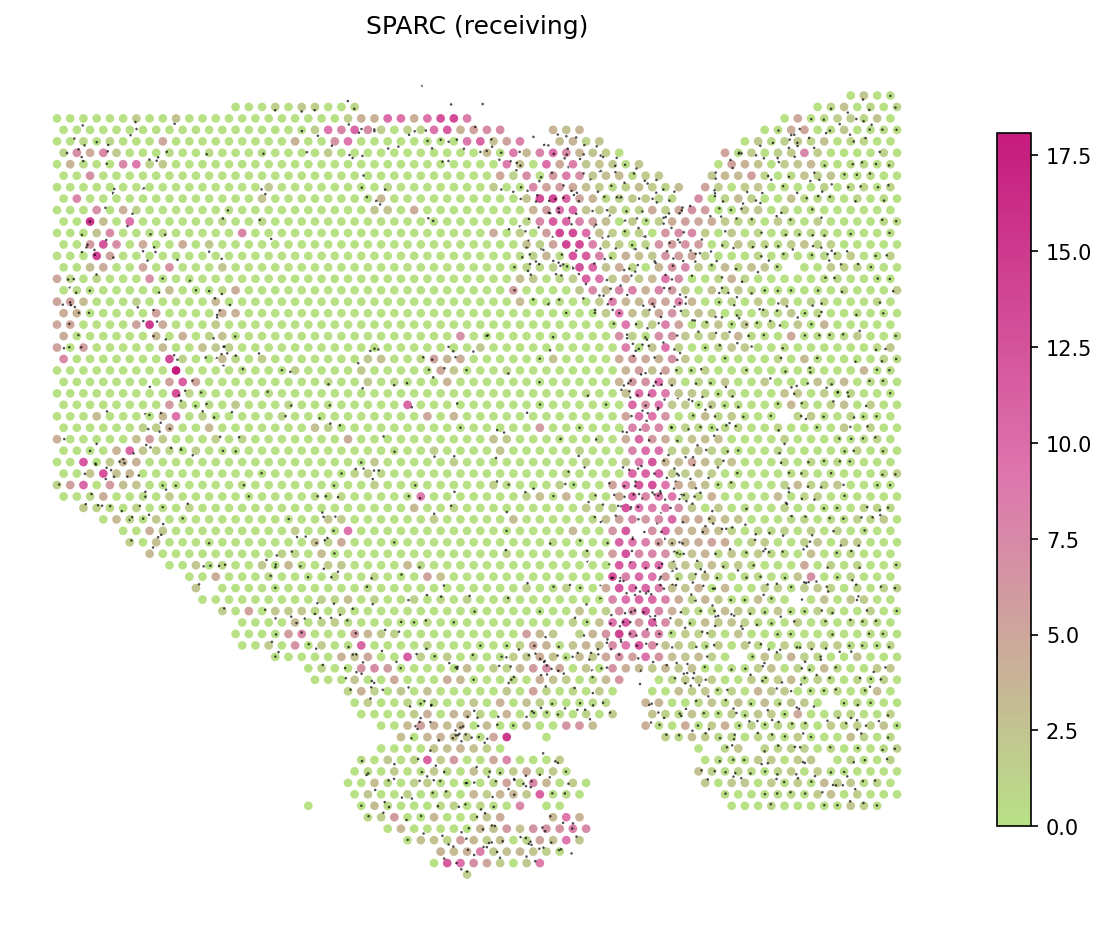
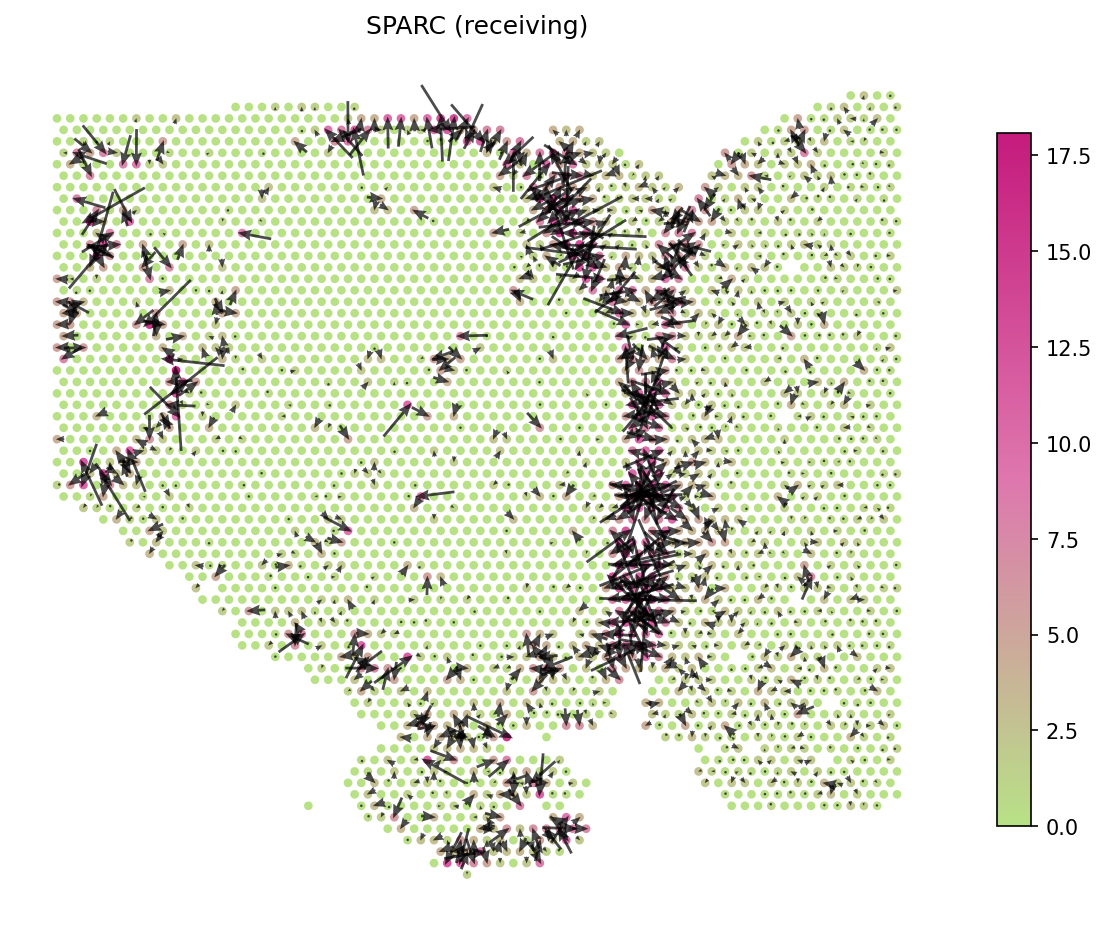
Fix arrow visibility in spot-level velocity plot

diff --git a/spatialgpu/deconvolution/visualization.py b/spatialgpu/deconvolution/visualization.py
@@ -2150,8 +2150,6 @@ def visualize_secact_velocity(
                 arrow_df["x_change"].values,
                 arrow_df["y_change"].values,
                 color=arrow_color,
-                scale_units="xy",
-                scale=0.3,
                 width=0.003,
                 headwidth=4,
                 headlength=5,
